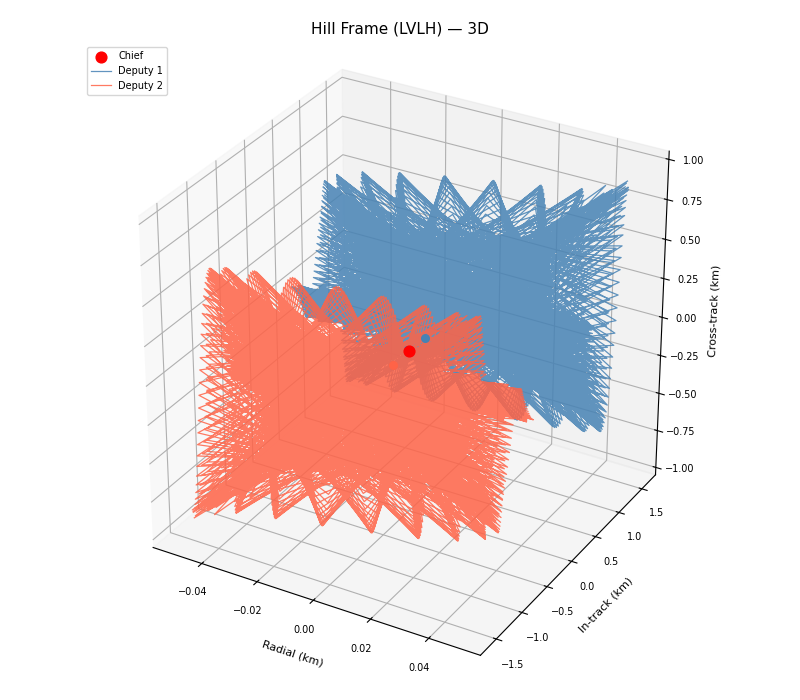
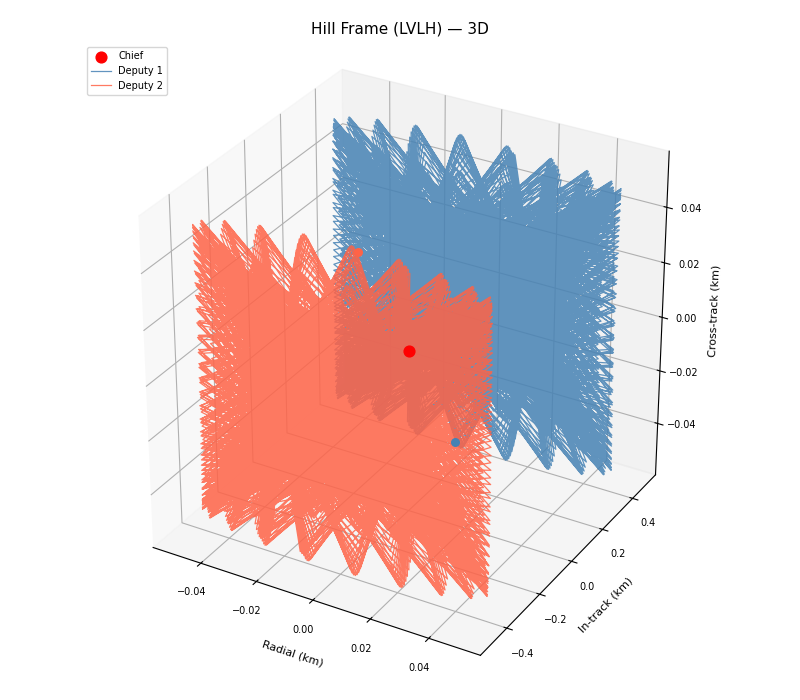
surely this is the last round of figures. I am so tired.

diff --git a/term_project/src/propagate.py b/term_project/src/propagate.py
@@ -600,7 +600,7 @@ def compute_solar_power(r_sc_eci, r_sun_eci,
 
     return efficiency * panel_area * S * cos_incidence
 
-
+'''
 def init_string_of_pearls(
     chief_orbit,
     separation_m: float = 1000.0,
@@ -684,79 +684,48 @@ def init_string_of_pearls(
         ))
 
     return roes
-
 '''
-def init_close_helix_deputies(
-        chief_orbit,
-        helix_radius_m: float = 500.0,
-        mean_dist_m: float = 0.0
+def init_string_of_pearls(
+    chief_orbit,
+    separation_m: float = 1000.0,
+    osc_fraction: float = 0.1,
 ) -> list:
-    """
-    Initialize two deputies in a 'helix' formation with passive safety.
+    a  = float(chief_orbit.getA())
+    u0 = (float(chief_orbit.getPerigeeArgument())
+          + float(chief_orbit.getMeanAnomaly()))
 
-    The helix formation places deputies on opposite sides of a relative
-    motion ellipse that wraps around the chief. Passive safety is achieved
-    by enforcing parallel eccentricity/inclination vector separation
-    (Spurmann & D'Amico, 2011), ensuring the deputies never cross through
-    the chief's position even without active control.
+    de_mag = osc_fraction * separation_m / a
+    di_mag = osc_fraction * separation_m / a
 
-    The geometry produces:
-      - Radial oscillation amplitude: a * δe (= helix_radius_m)
-      - Cross-track oscillation amplitude: a * δi (= 2 * helix_radius_m)
-      - The 2:1 scaling creates a quasi-circular cross-section in the
-        radial-crosstrack plane
+    # Eccentricity: phase for zero initial radial offset
+    phi_e = u0 + np.pi / 2.0
+    dex   = de_mag * np.cos(phi_e)
+    dey   = de_mag * np.sin(phi_e)
 
-    Parameters
-    ----------
-    chief_orbit : KeplerianOrbit
-        Reference orbit of the chief spacecraft.
-    helix_radius_m : float, optional
-        Radial swing amplitude of the relative motion [m]
-    mean_dist_m    : Mean along-track offset from chief (m).
-                     Set to 0 to circle exactly around the chief.
-    """
-    a = float(chief_orbit.getA())
-    # u0 is the Argument of Latitude (perigee + mean anomaly)
-    u0 = float(chief_orbit.getPerigeeArgument()) + float(chief_orbit.getMeanAnomaly())
-
-    # Magnitudes for ROEs
-    # For a quasi-circular relative orbit:
-    # Radial swing is a*de, Cross-track swing is a*di
-    de_mag = helix_radius_m / a
-    di_mag = (2.0 * helix_radius_m) / a  # Standard scaling for 'circular' look
-
-    # Passive Safety Phase: Parallel Vectors
-    # We want the phase of the e-vector (phi) and i-vector (theta)
-    # to be aligned with the current position u0.
-    phi = u0  # phase of eccentricity vector
-    theta = u0  # phase of inclination vector
-
-    # Decompose into ROE components
-    dex = de_mag * np.cos(phi)
-    dey = de_mag * np.sin(phi)
-
-    dix = di_mag * np.cos(theta)
-    diy = di_mag * np.sin(theta)
+    # Inclination: FORCE dix = 0 for J2-invariance
+    # Put all δi into diy (RAAN component)
+    # This means nonzero initial cross-track offset, but bounded
+    dix = 0.0
+    diy = di_mag   # or -di_mag, doesn't matter for J2
 
     roes = []
-    # Create two deputies on opposite sides of the helix
     for sign in (1.0, -1.0):
-        # The mean distance (dl) is modified by the eccentricity to
-        # keep the 'instantaneous' T0 centered at mean_dist_m
-        T_offset = sign * mean_dist_m
-        dl = (T_offset / a) + 2.0 * (sign * dex) * np.sin(u0) - 2.0 * (sign * dey) * np.cos(u0)
+        curr_dex = sign * dex
+        curr_dey = sign * dey
+        curr_diy = sign * diy
 
+        T0 = sign * separation_m
+        dl = (T0 / a) + 2.0 * curr_dex * np.sin(u0) - 2.0 * curr_dey * np.cos(u0)
         roes.append(dict(
-            da= 0.0,
+            da=0.0,
             dl=float(dl),
-            dex=float(sign * dex),
-            dey=float(sign * dey),
-            dix=float(sign * dix),
-            diy=float(sign * diy),
+            dex=float(curr_dex),
+            dey=float(curr_dey),
+            dix=0.0,
+            diy=float(curr_diy),
         ))
 
     return roes
-'''
 
 def init_close_helix_deputies(
         chief_orbit,

diff --git a/term_project/src/design_B_final.py b/term_project/src/design_B_final.py
@@ -33,7 +33,7 @@ from propagate import (
 
 # ── Save directory ──
 THIS_DIR = Path(__file__).resolve().parent
-path = THIS_DIR.parent / "figs" / "ideal_force_model" / "design_B"
+path = THIS_DIR.parent / "figs" / "full_force_model" / "design_B"
 
 # ══════════════════════════════════════════════════════════════════════
 # SETUP
@@ -51,8 +51,8 @@ sun_pv = sun.getPVCoordinates(initial_date, eci).getPosition()
 sun_ra = np.arctan2(sun_pv.getY(), sun_pv.getX())
 
 # ── Force model: J2 only ──
-perturbs = build_full_force_model(gravity_degree=2, gravity_order=0, include_drag=False,include_srp=False, include_third_body=False)
-# perturbs = build_full_force_model()
+# perturbs = build_full_force_model(gravity_degree=2, gravity_order=0, include_drag=False,include_srp=False, include_third_body=False)
+perturbs = build_full_force_model()
 
 max_dist = 5.0
 
@@ -74,7 +74,7 @@ chief_orbit = KeplerianOrbit(
 # ══════════════════════════════════════════════════════════════════════
 # DEPUTY INITIALIZATION — HELIX
 # ══════════════════════════════════════════════════════════════════════
-init_sep = 2e3 #m
+init_sep = 4e3 #m
 deputy_roes   = init_string_of_pearls(chief_orbit, init_sep)
 deputy_orbits = [apply_ROE(chief_orbit, r) for r in deputy_roes]
 

diff --git a/term_project/src/design_A_final.py b/term_project/src/design_A_final.py
@@ -33,7 +33,7 @@ from propagate import (
 
 # ── Save directory ──
 THIS_DIR = Path(__file__).resolve().parent
-path = THIS_DIR.parent / "figs" / "ideal_force_model" / "design_A" / "pearls"
+path = THIS_DIR.parent / "figs" / "full_force_model" / "design_A" / "pearls"
 
 # ══════════════════════════════════════════════════════════════════════
 # SETUP
@@ -51,10 +51,10 @@ sun_pv = sun.getPVCoordinates(initial_date, eci).getPosition()
 sun_ra = np.arctan2(sun_pv.getY(), sun_pv.getX())
 
 # ── Force model: J2 only ──
-perturbs = build_full_force_model(gravity_degree=2, gravity_order=0,
-                                  include_drag=False,include_srp=False,
-                                  include_third_body=False)
-# perturbs = build_full_force_model()
+# perturbs = build_full_force_model(gravity_degree=2, gravity_order=0,
+#                                   include_drag=False,include_srp=False,
+#                                   include_third_body=False)
+perturbs = build_full_force_model()
 
 max_dist = 1.5 #(km)
 
